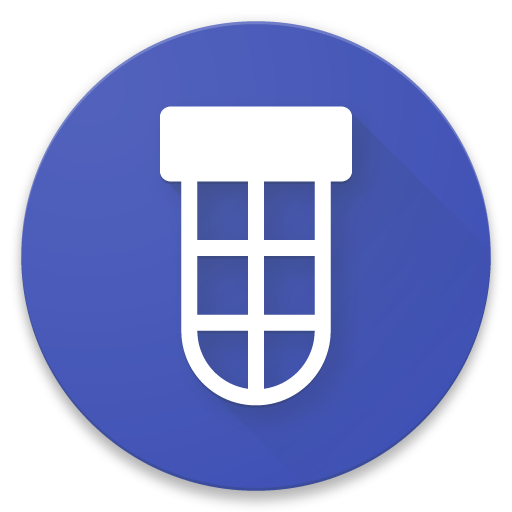
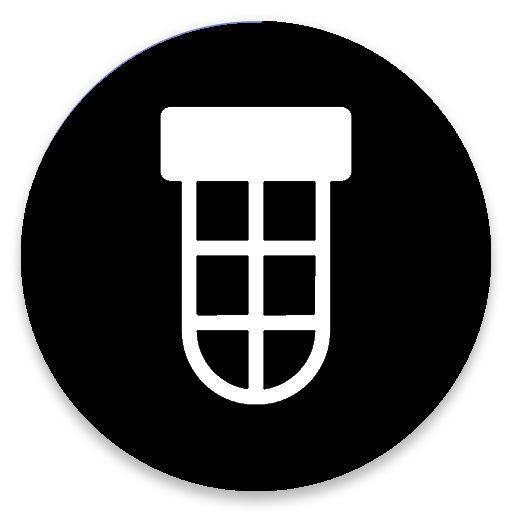
..

diff --git a/src/main.html b/src/main.html
@@ -22,7 +22,36 @@
 </head>
 
 <body>
-	HEADER
+	<nav class="navbar navbar-expand-lg navbar-dark bg-dark breaker-nav">
+		<a class="navbar-brand" href="${lph}/"><img class="icon" src="images/icon-bg.png"></a>
+		<button class="navbar-toggler" type="button" data-toggle="collapse" data-target="#navbarsExample05" aria-controls="navbarsExample05"
+		 aria-expanded="false" aria-label="Toggle navigation">
+			<span class="navbar-toggler-icon"></span>
+		</button>
+
+		<div class="collapse navbar-collapse" id="navbarsExample05">
+			<ul class="navbar-nav mr-auto">
+				<li class="nav-item active">
+					<a class="nav-link" href="${lph}/robots">Robots</a>
+				</li>
+				<li class="nav-item active">
+					<a class="nav-link" href="${lph}/resources_page">Resources</a>
+				</li>
+				<li class="nav-item active">
+					<a class="nav-link" href="${lph}/community">Community</a>
+				</li>
+				<li class="nav-item active">
+					<a class="nav-link" href="${lph}/events">Events</a>
+				</li>
+				<li class="nav-item active">
+					<a class="nav-link" href="${lph}/sponsor">Sponsor</a>
+				</li>
+				<li class="nav-item active">
+					<a class="nav-link" href="${lph}/contact">Contact</a>
+				</li>
+			</ul>
+		</div>
+	</nav>
 	${content}
 	<breaker-footer>
 		<breaker-footer--other>
@@ -32,7 +61,7 @@
 				<a href="${lph}/community">Community</a>
 			</breaker-footer--other-left>
 			<breaker-footer--other-center>
-				<img src="${lph}images/icon.png" />
+				<img src="${lph}images/icon-bg.png" />
 			</breaker-footer--other-center>
 			<breaker-footer--other-right>
 				<a href="${lph}/events">Events</a>

diff --git a/src/resources/css/main.css b/src/resources/css/main.css
@@ -1,4 +1,27 @@
+/* Header */
+
+.breaker-nav {
+	background-color: #C41E3A !important
+}
+
 /* Content */
+
+.carousel {
+	background: black;
+	margin-top: -25px;
+}
+.carousel img {
+	max-height: 90vh;
+	width: 100%;
+	height: 100%;
+	object-fit: cover;
+	opacity: 0.75;
+}
+
+.icon {
+	max-height: 45px;
+	margin-left: 15px;
+}
 
 .lead {
 	color: #666 !important

diff --git a/src/pages/index.html b/src/pages/index.html
@@ -5,17 +5,6 @@
 h1, h2, h3, h4 {
     color: #b90013ff;
 }
-    .carousel {
-        background: black;
-    }
-    .carousel img {
-        max-height: 95vh;
-        width: 100%;
-        height: 100%;
-        object-fit: cover;
-        opacity: 0.75;
-    }
-
     .about {
         margin: 4%;
     }
